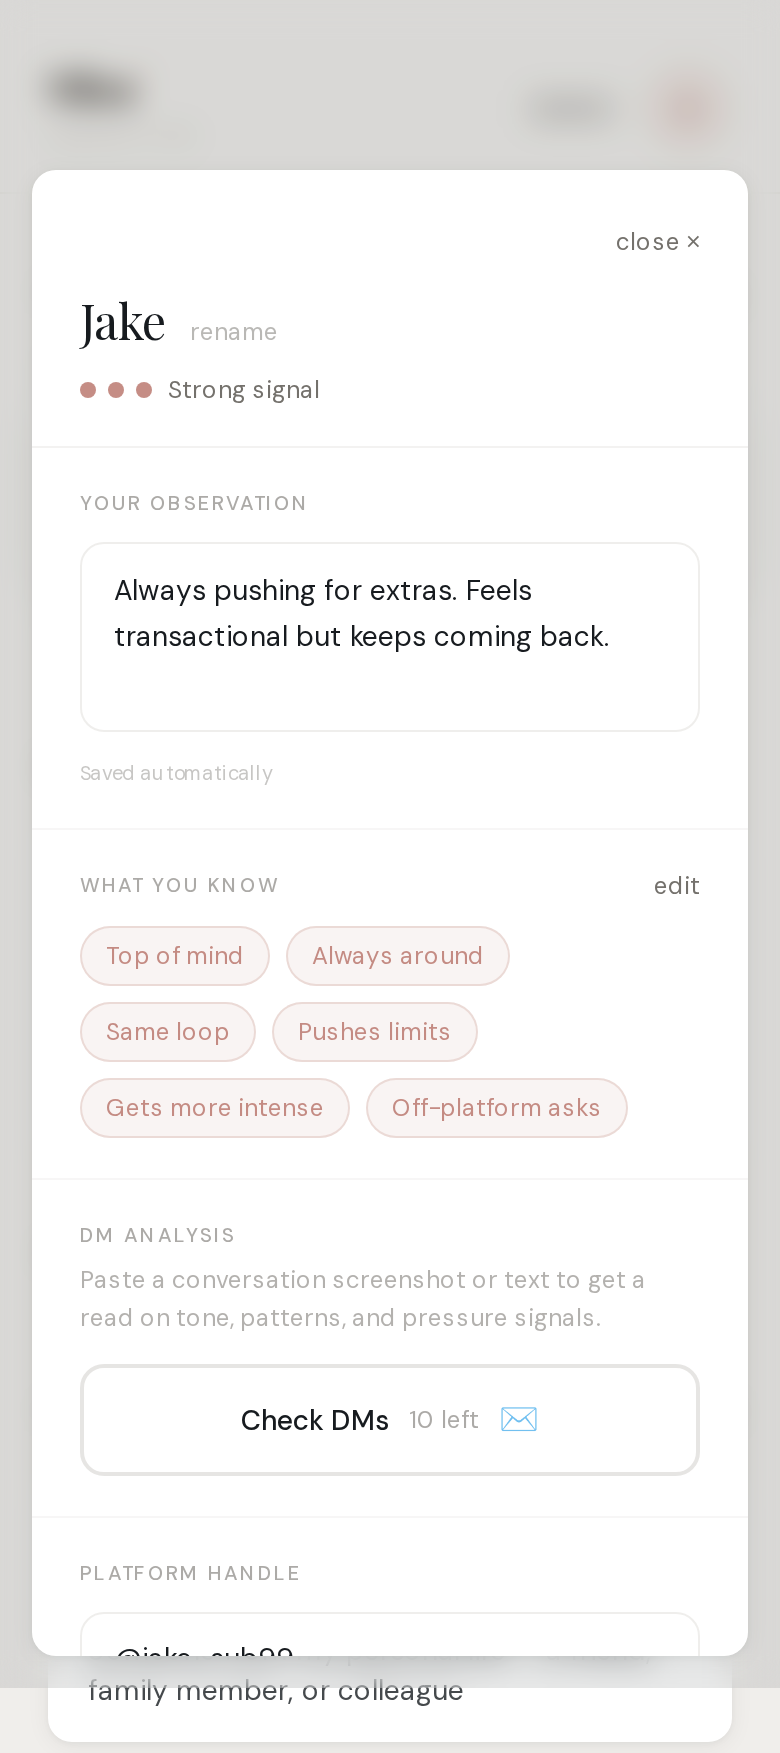
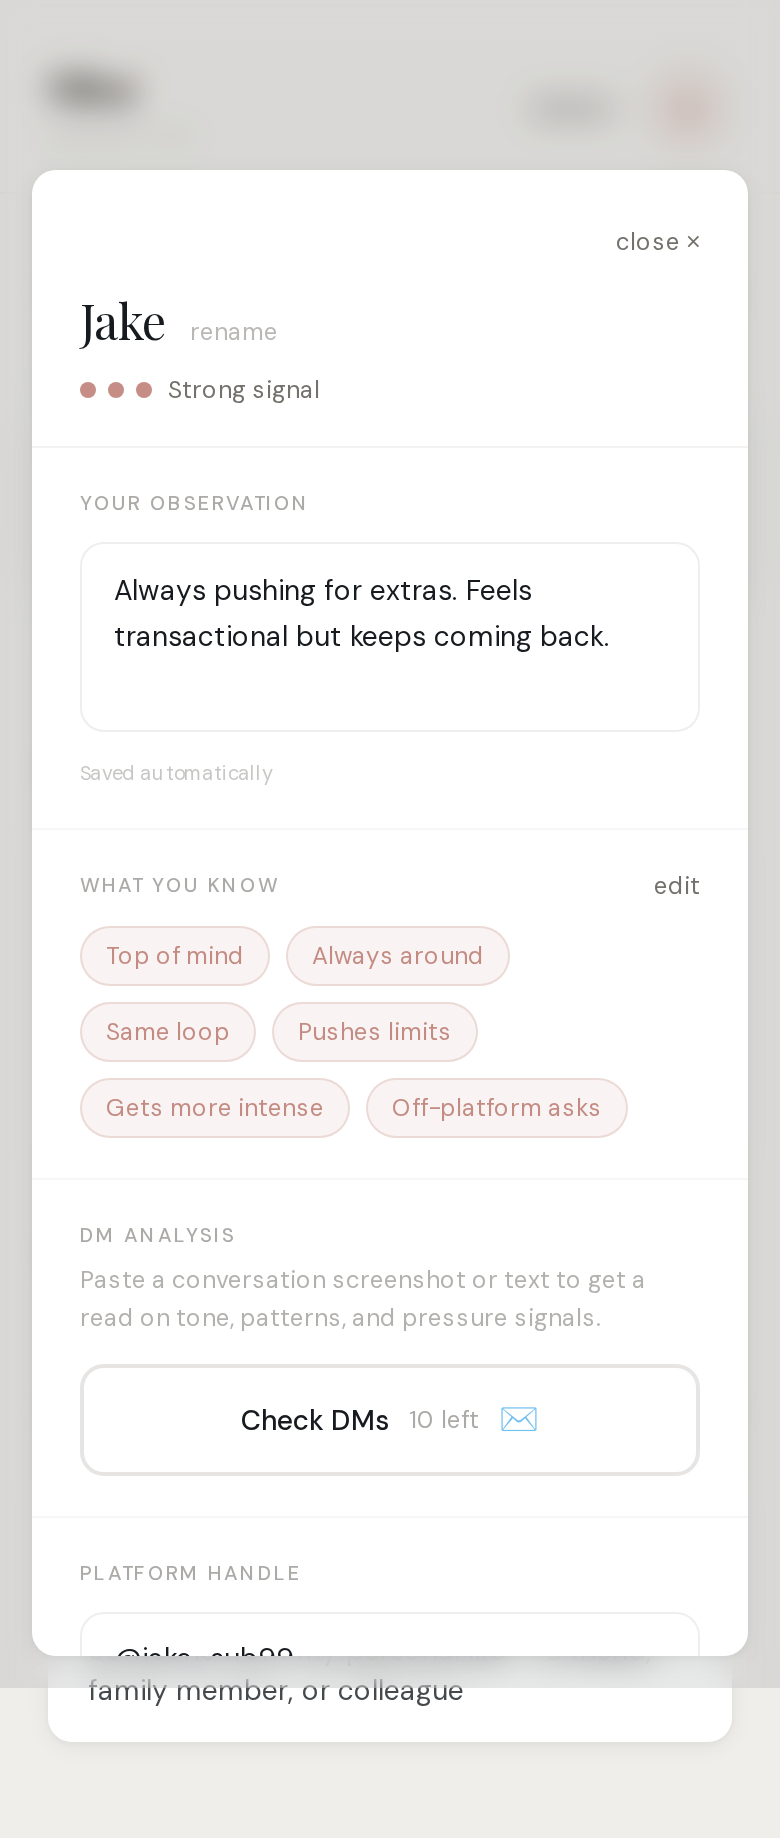
fix: replace screenshots with clean versions + add bottom fade gradient
- 01_dashboard: Andrew's clean screenshot (780x1753)
- 02_name_drawer: restored from original (780x1838)
- 03_check_dms: Andrew's clean screenshot, resized to 780px wide
- 04_vibe_check: Andrew's clean screenshot, resized to 780px wide
- Added CSS ::after fade gradient on .screen-card to gracefully
  mask the drawer/background bleed at the bottom of screenshots

diff --git a/index.html b/index.html
@@ -376,6 +376,17 @@
       overflow: hidden;
       border: 1px solid var(--border);
       box-shadow: 0 8px 32px oklch(0.235 0.015 65 / 0.07);
+      position: relative;
+    }
+    .screen-card::after {
+      content: '';
+      position: absolute;
+      left: 0;
+      right: 0;
+      bottom: 0;
+      height: 80px;
+      background: linear-gradient(to bottom, transparent, var(--card));
+      pointer-events: none;
     }
     .screen-card img {
       width: 100%;
